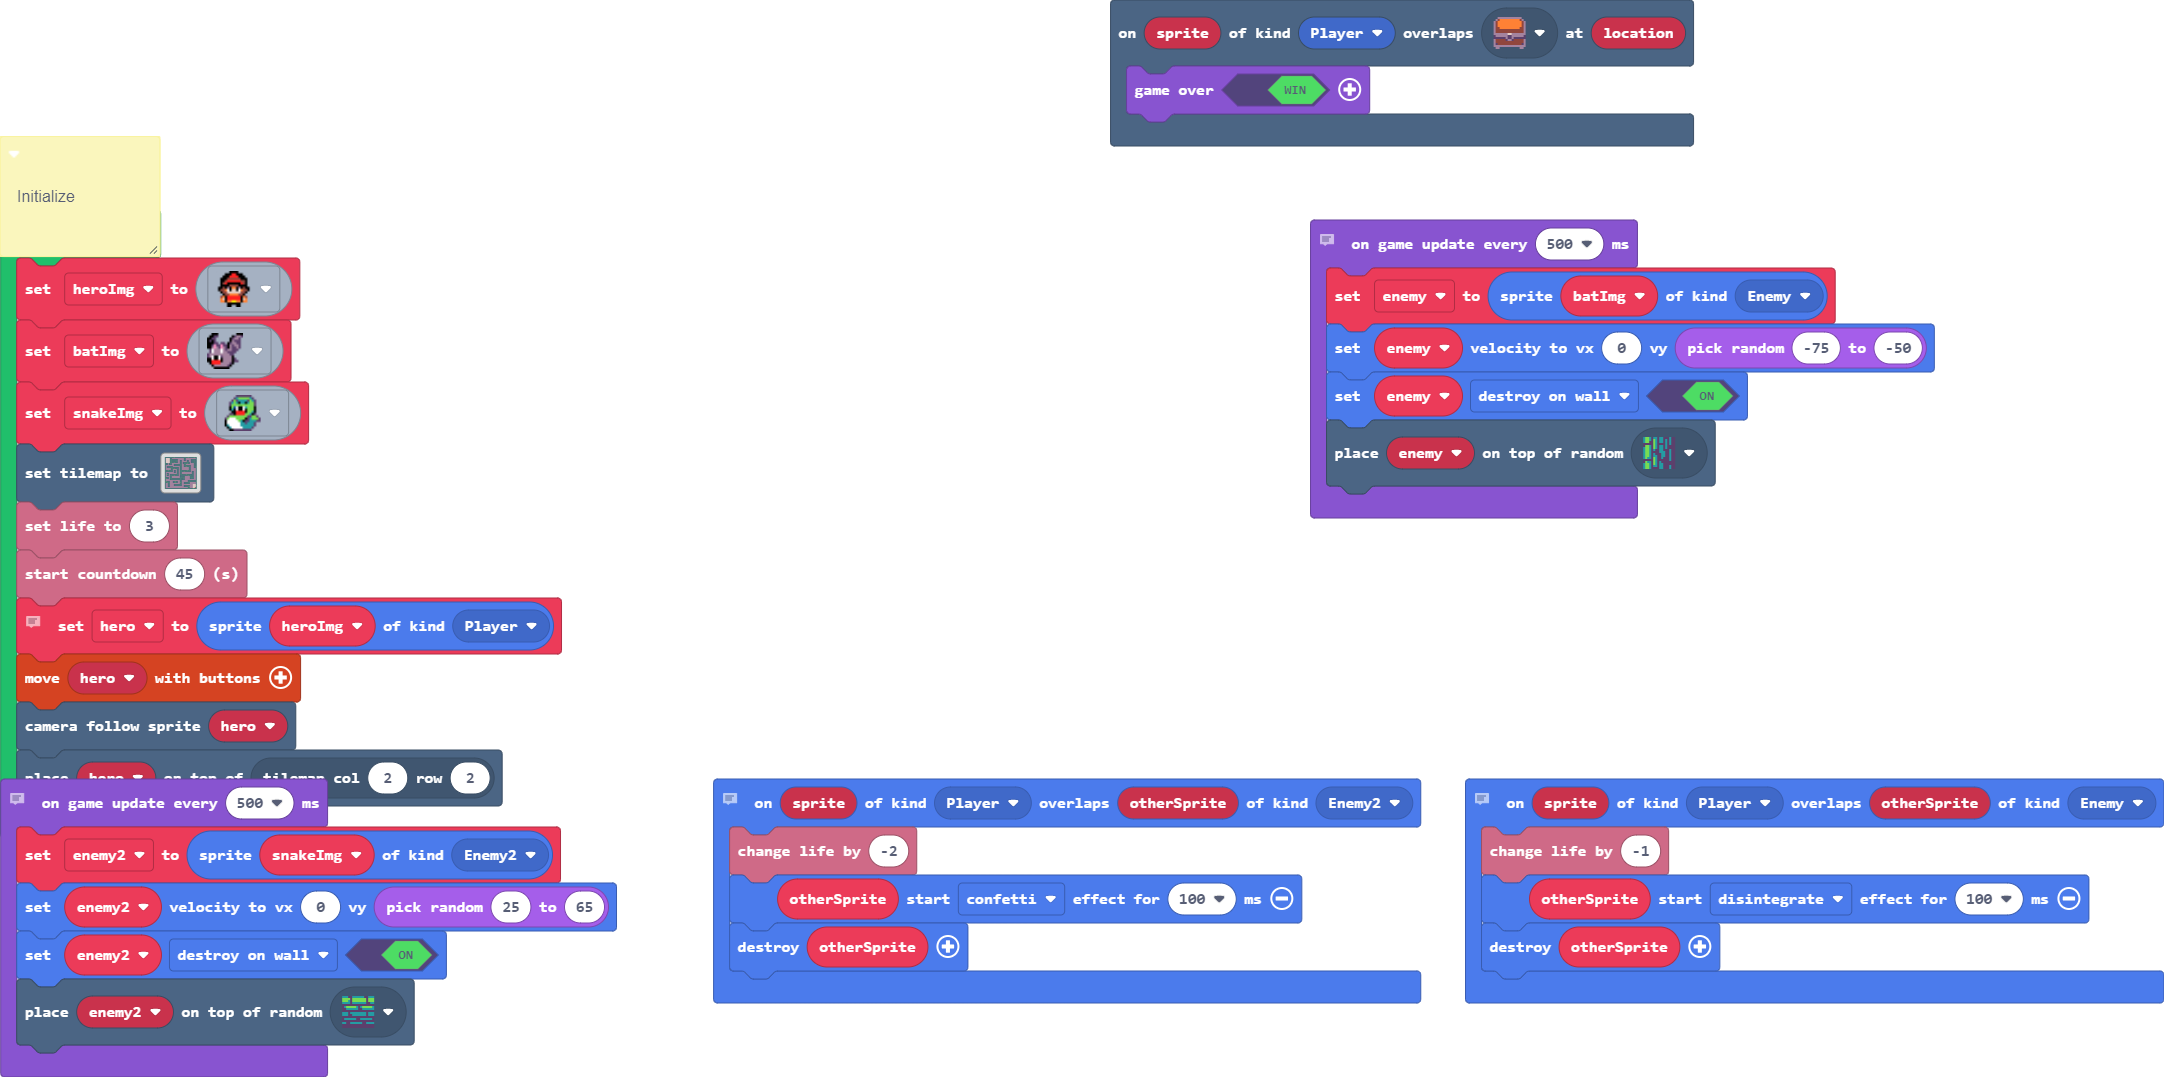
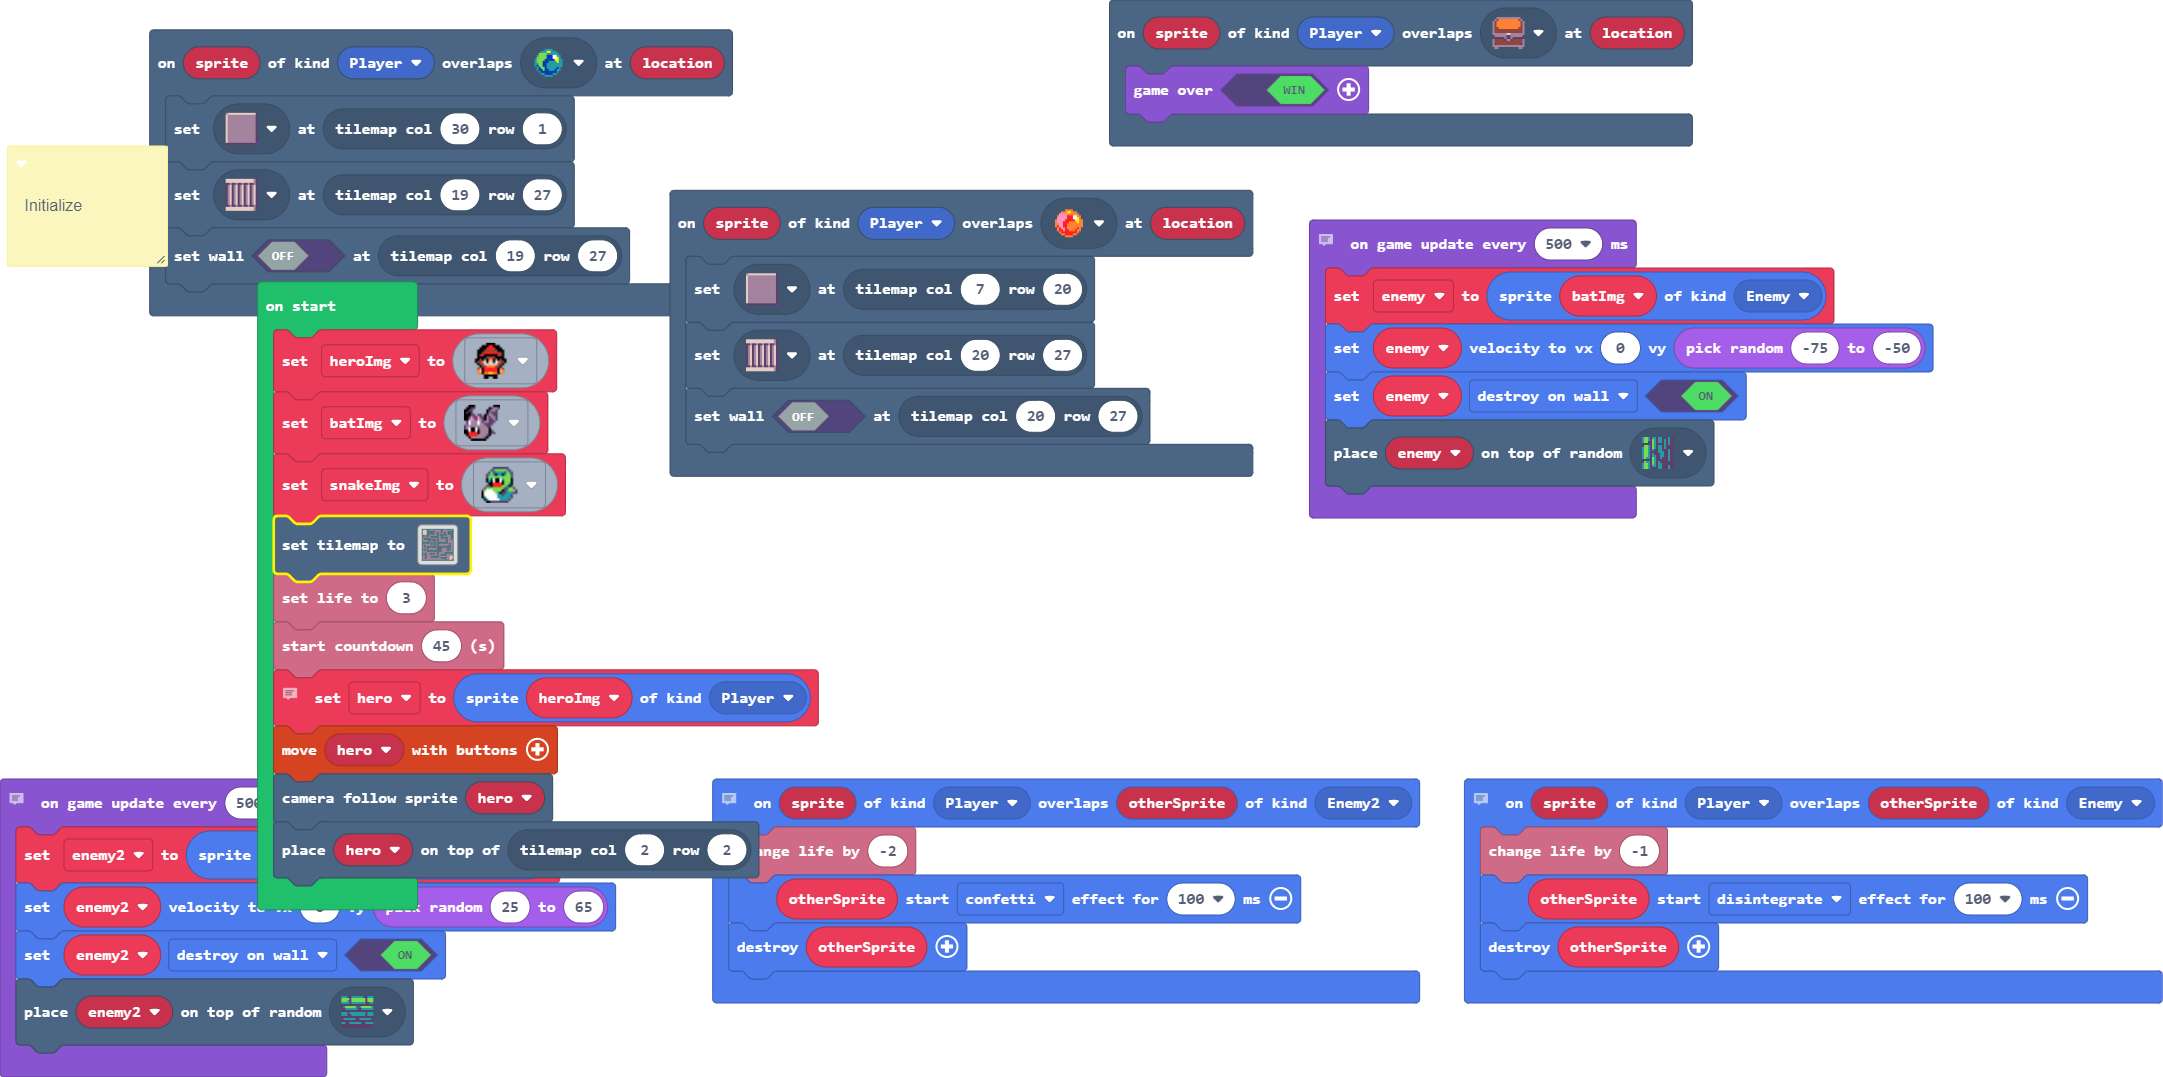
Update main.blocks, main.ts, tilemap.g.jres, tilemap.g.ts

diff --git a/tilemap.g.ts b/tilemap.g.ts
@@ -23,7 +23,7 @@ namespace myTiles {
 . 2 . . . . . . . . . . . . . . 
 . 2 . . . . . . . . . . . . . . 
 `, [myTiles.transparency16,sprites.builtin.forestTiles9], TileScale.Sixteen)
[2 lines of base64/hex data omitted]
 22222222222222222222222222222222
 2....22............22..........2
 2....22222222......22.....222222
@@ -51,12 +51,12 @@ namespace myTiles {
 22222...22222..22......222222222
 22222...22222..22..222222......2
 2..22..........22..222222......2
-2..22....22222222..............2
+2..22....22222222..22..........2
 2..22....22222222...22222......2
 2..22..............222222......2
 2......................22......2
 22222222222222222222222222222222
-`, [myTiles.transparency16,sprites.dungeon.greenOuterSouth0,sprites.dungeon.greenOuterSouthEast,sprites.dungeon.greenOuterWest1,sprites.dungeon.greenOuterNorthWest,sprites.dungeon.greenOuterNorth0,sprites.dungeon.greenOuterNorthEast,sprites.dungeon.greenOuterSouthWest,sprites.dungeon.greenOuterEast0,sprites.dungeon.floorLight2,sprites.dungeon.greenInnerSouthWest,sprites.dungeon.greenInnerSouthEast,sprites.dungeon.greenInnerNorthEast,sprites.dungeon.greenInnerNorthWest,sprites.dungeon.stairSouth,sprites.dungeon.greenOuterNorth2,sprites.dungeon.greenOuterSouth2,sprites.dungeon.greenOuterEast2,sprites.dungeon.greenOuterWest2,sprites.dungeon.stairWest,sprites.dungeon.floorDark2,sprites.dungeon.chestClosed], TileScale.Sixteen)
+`, [myTiles.transparency16,sprites.dungeon.greenOuterSouth0,sprites.dungeon.greenOuterSouthEast,sprites.dungeon.greenOuterWest1,sprites.dungeon.greenOuterNorthWest,sprites.dungeon.greenOuterNorth0,sprites.dungeon.greenOuterNorthEast,sprites.dungeon.greenOuterSouthWest,sprites.dungeon.greenOuterEast0,sprites.dungeon.floorLight2,sprites.dungeon.greenInnerSouthWest,sprites.dungeon.greenInnerSouthEast,sprites.dungeon.greenInnerNorthEast,sprites.dungeon.greenInnerNorthWest,sprites.dungeon.stairSouth,sprites.dungeon.greenOuterNorth2,sprites.dungeon.greenOuterSouth2,sprites.dungeon.greenOuterEast2,sprites.dungeon.greenOuterWest2,sprites.dungeon.stairWest,sprites.dungeon.floorDark2,sprites.dungeon.chestClosed,sprites.builtin.field1,sprites.builtin.field0,sprites.dungeon.collectibleBlueCrystal,sprites.dungeon.collectibleRedCrystal], TileScale.Sixteen)
         }
         return null;
     })

diff --git a/main.ts b/main.ts
@@ -1,6 +1,14 @@
 namespace SpriteKind {
     export const Enemy2 = SpriteKind.create()
 }
+/**
+ * Initialize
+ */
+scene.onOverlapTile(SpriteKind.Player, sprites.dungeon.collectibleBlueCrystal, function (sprite, location) {
+    tiles.setTileAt(tiles.getTileLocation(30, 1), sprites.dungeon.floorDark2)
+    tiles.setTileAt(tiles.getTileLocation(19, 27), sprites.dungeon.stairWest)
+    tiles.setWallAt(tiles.getTileLocation(19, 27), false)
+})
 scene.onOverlapTile(SpriteKind.Player, sprites.dungeon.chestClosed, function (sprite, location) {
     game.over(true)
 })
@@ -10,15 +18,17 @@ sprites.onOverlap(SpriteKind.Player, SpriteKind.Enemy2, function (sprite, otherS
     otherSprite.startEffect(effects.confetti, 100)
     otherSprite.destroy()
 })
+scene.onOverlapTile(SpriteKind.Player, sprites.dungeon.collectibleRedCrystal, function (sprite, location) {
+    tiles.setTileAt(tiles.getTileLocation(7, 20), sprites.dungeon.floorDark2)
+    tiles.setTileAt(tiles.getTileLocation(20, 27), sprites.dungeon.stairWest)
+    tiles.setWallAt(tiles.getTileLocation(20, 27), false)
+})
 // Detect when hero and Bats collide
 sprites.onOverlap(SpriteKind.Player, SpriteKind.Enemy, function (sprite, otherSprite) {
     info.changeLifeBy(-1)
     otherSprite.startEffect(effects.disintegrate, 100)
     otherSprite.destroy()
 })
-/**
- * Initialize
- */
 let enemy2: Sprite = null
 let enemy: Sprite = null
 let heroImg = sprites.castle.heroWalkFront1
